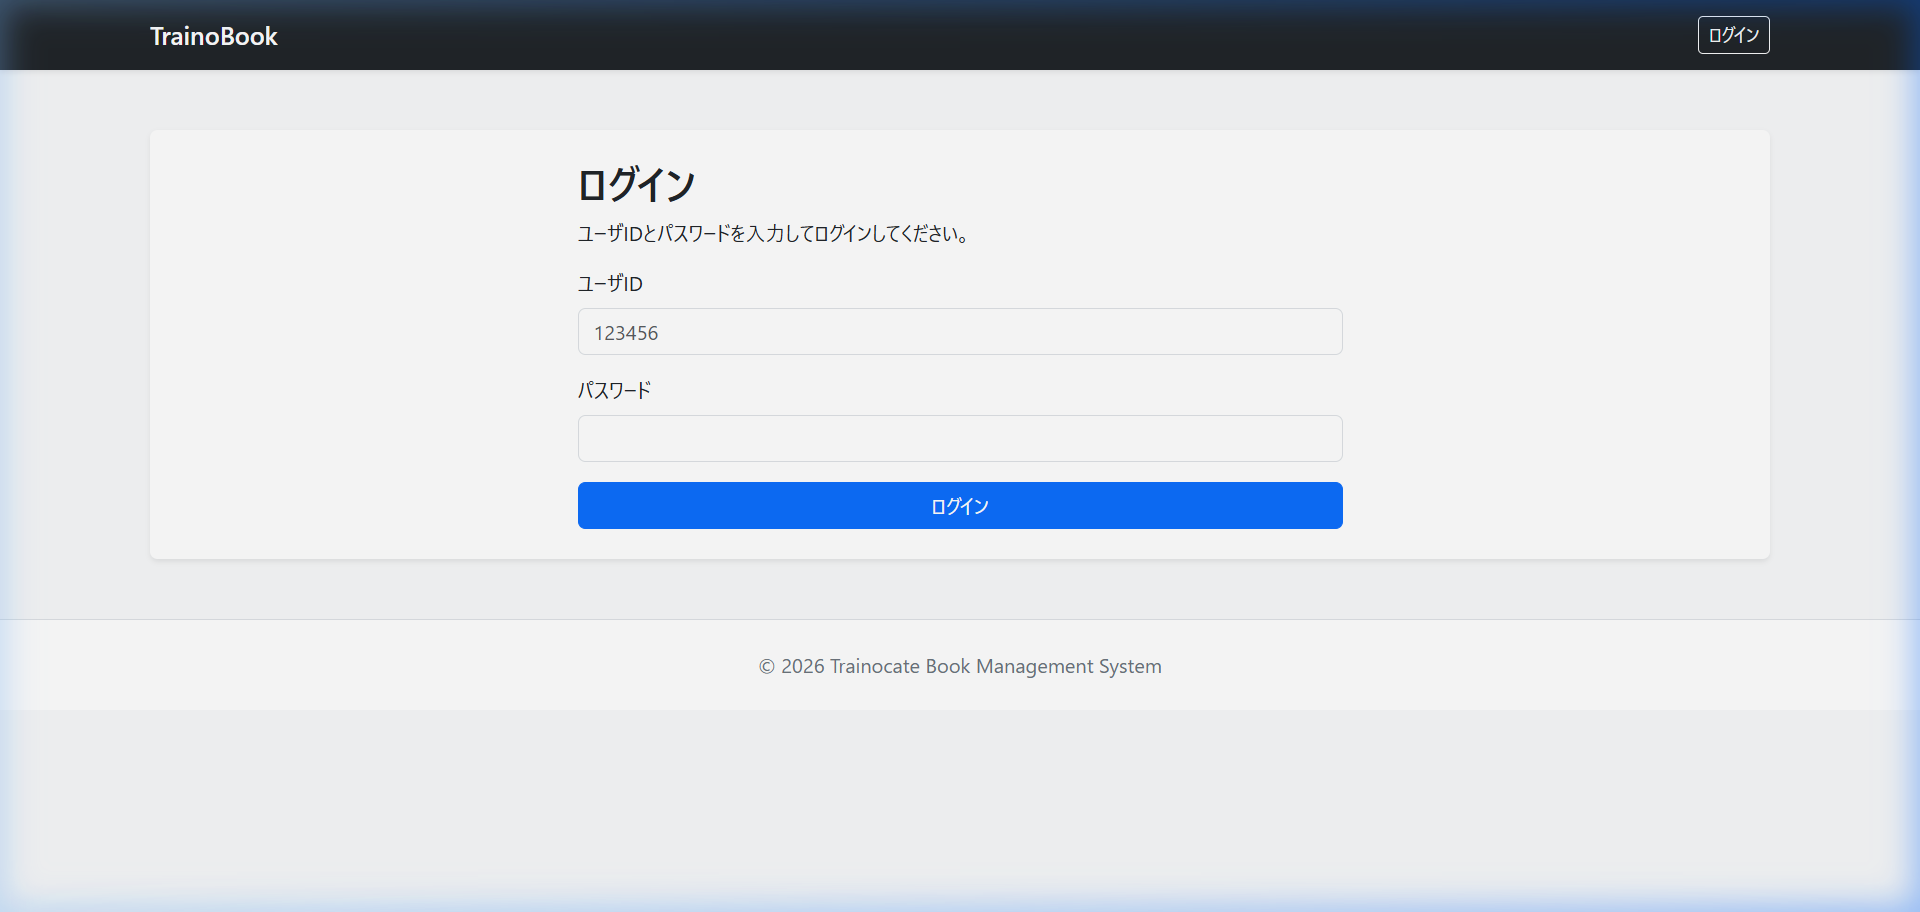
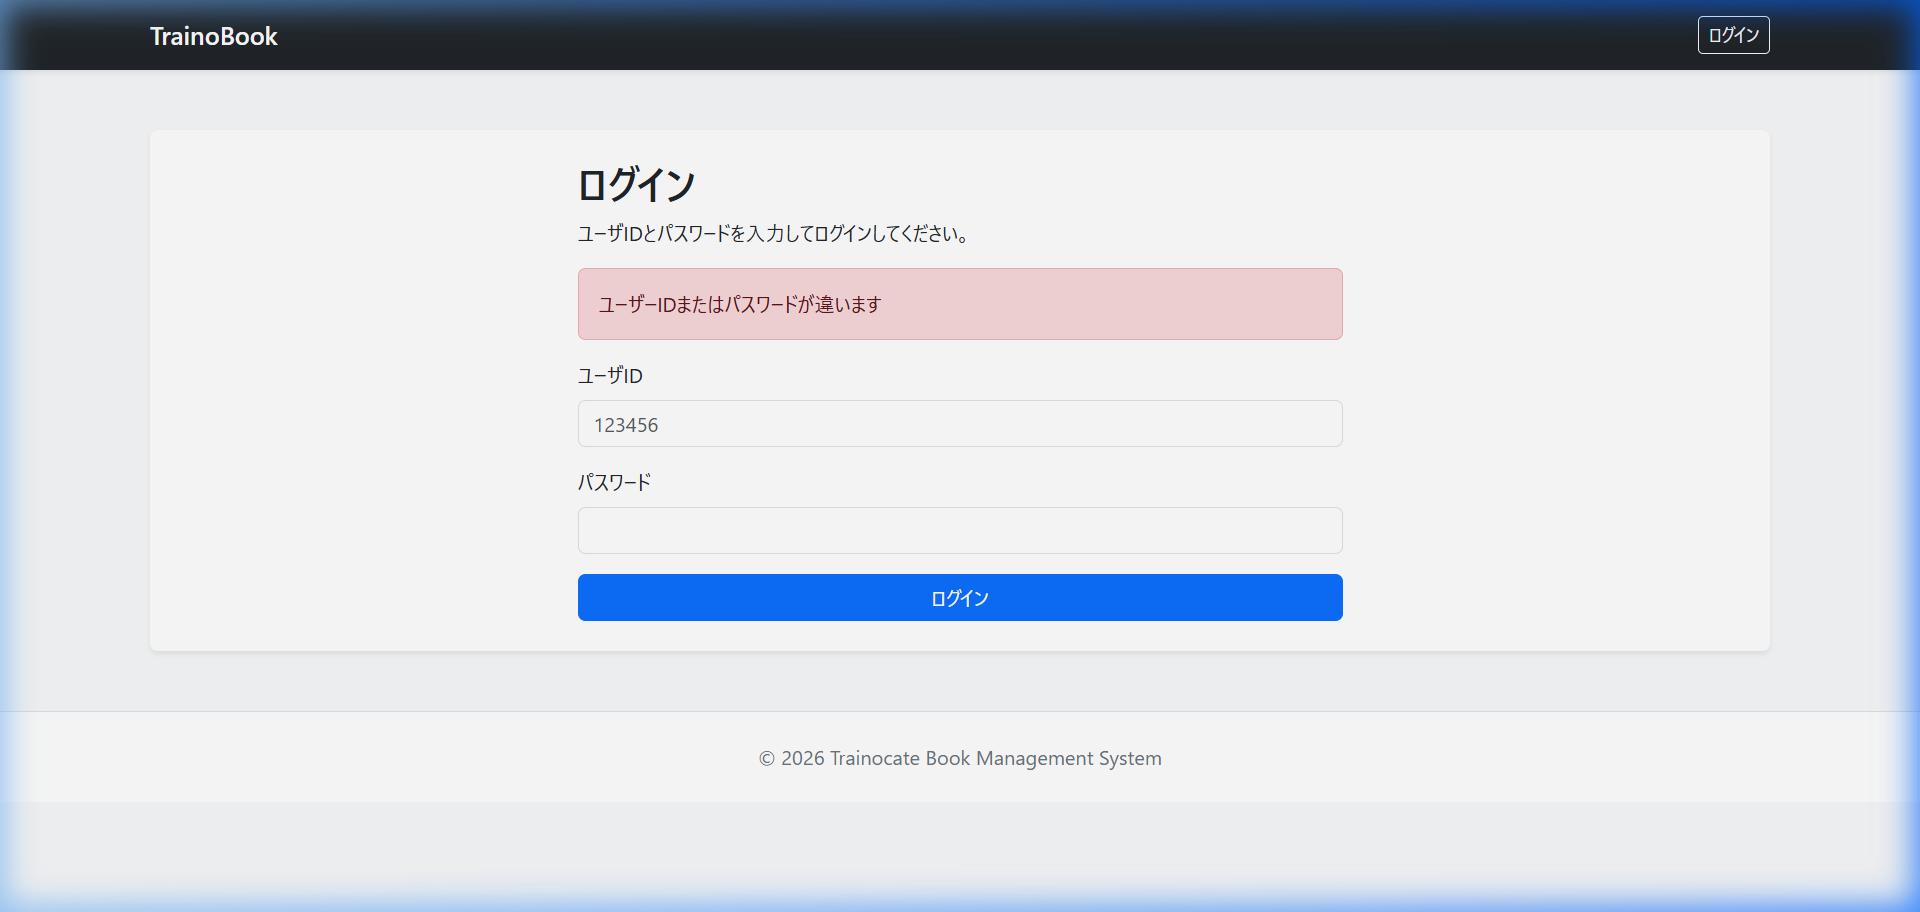
第7章：ログインエラー表示のスタイリング不備（余白不足）を修正し、設計書画像を更新

diff --git a/TrainoBook_Answer_7/src/main/resources/templates/index.html b/TrainoBook_Answer_7/src/main/resources/templates/index.html
@@ -16,7 +16,7 @@
                 
                 <!-- 【課題4.3追加】 認証エラー時のメッセージ表示 -->
                 <!-- alert: 警告枠の基本、alert-danger: 赤色の警告スタイル -->
-                <div th:if="${error}" class="alert alert-danger" th:text="${error}"></div>
+                <div th:if="${error}" class="alert alert-danger mb-3" th:text="${error}"></div>
 
                 <!-- 【課題2.1 - ステップ4】 ログイン用フォーム -->
                 <form th:action="@{/login}" method="post">
